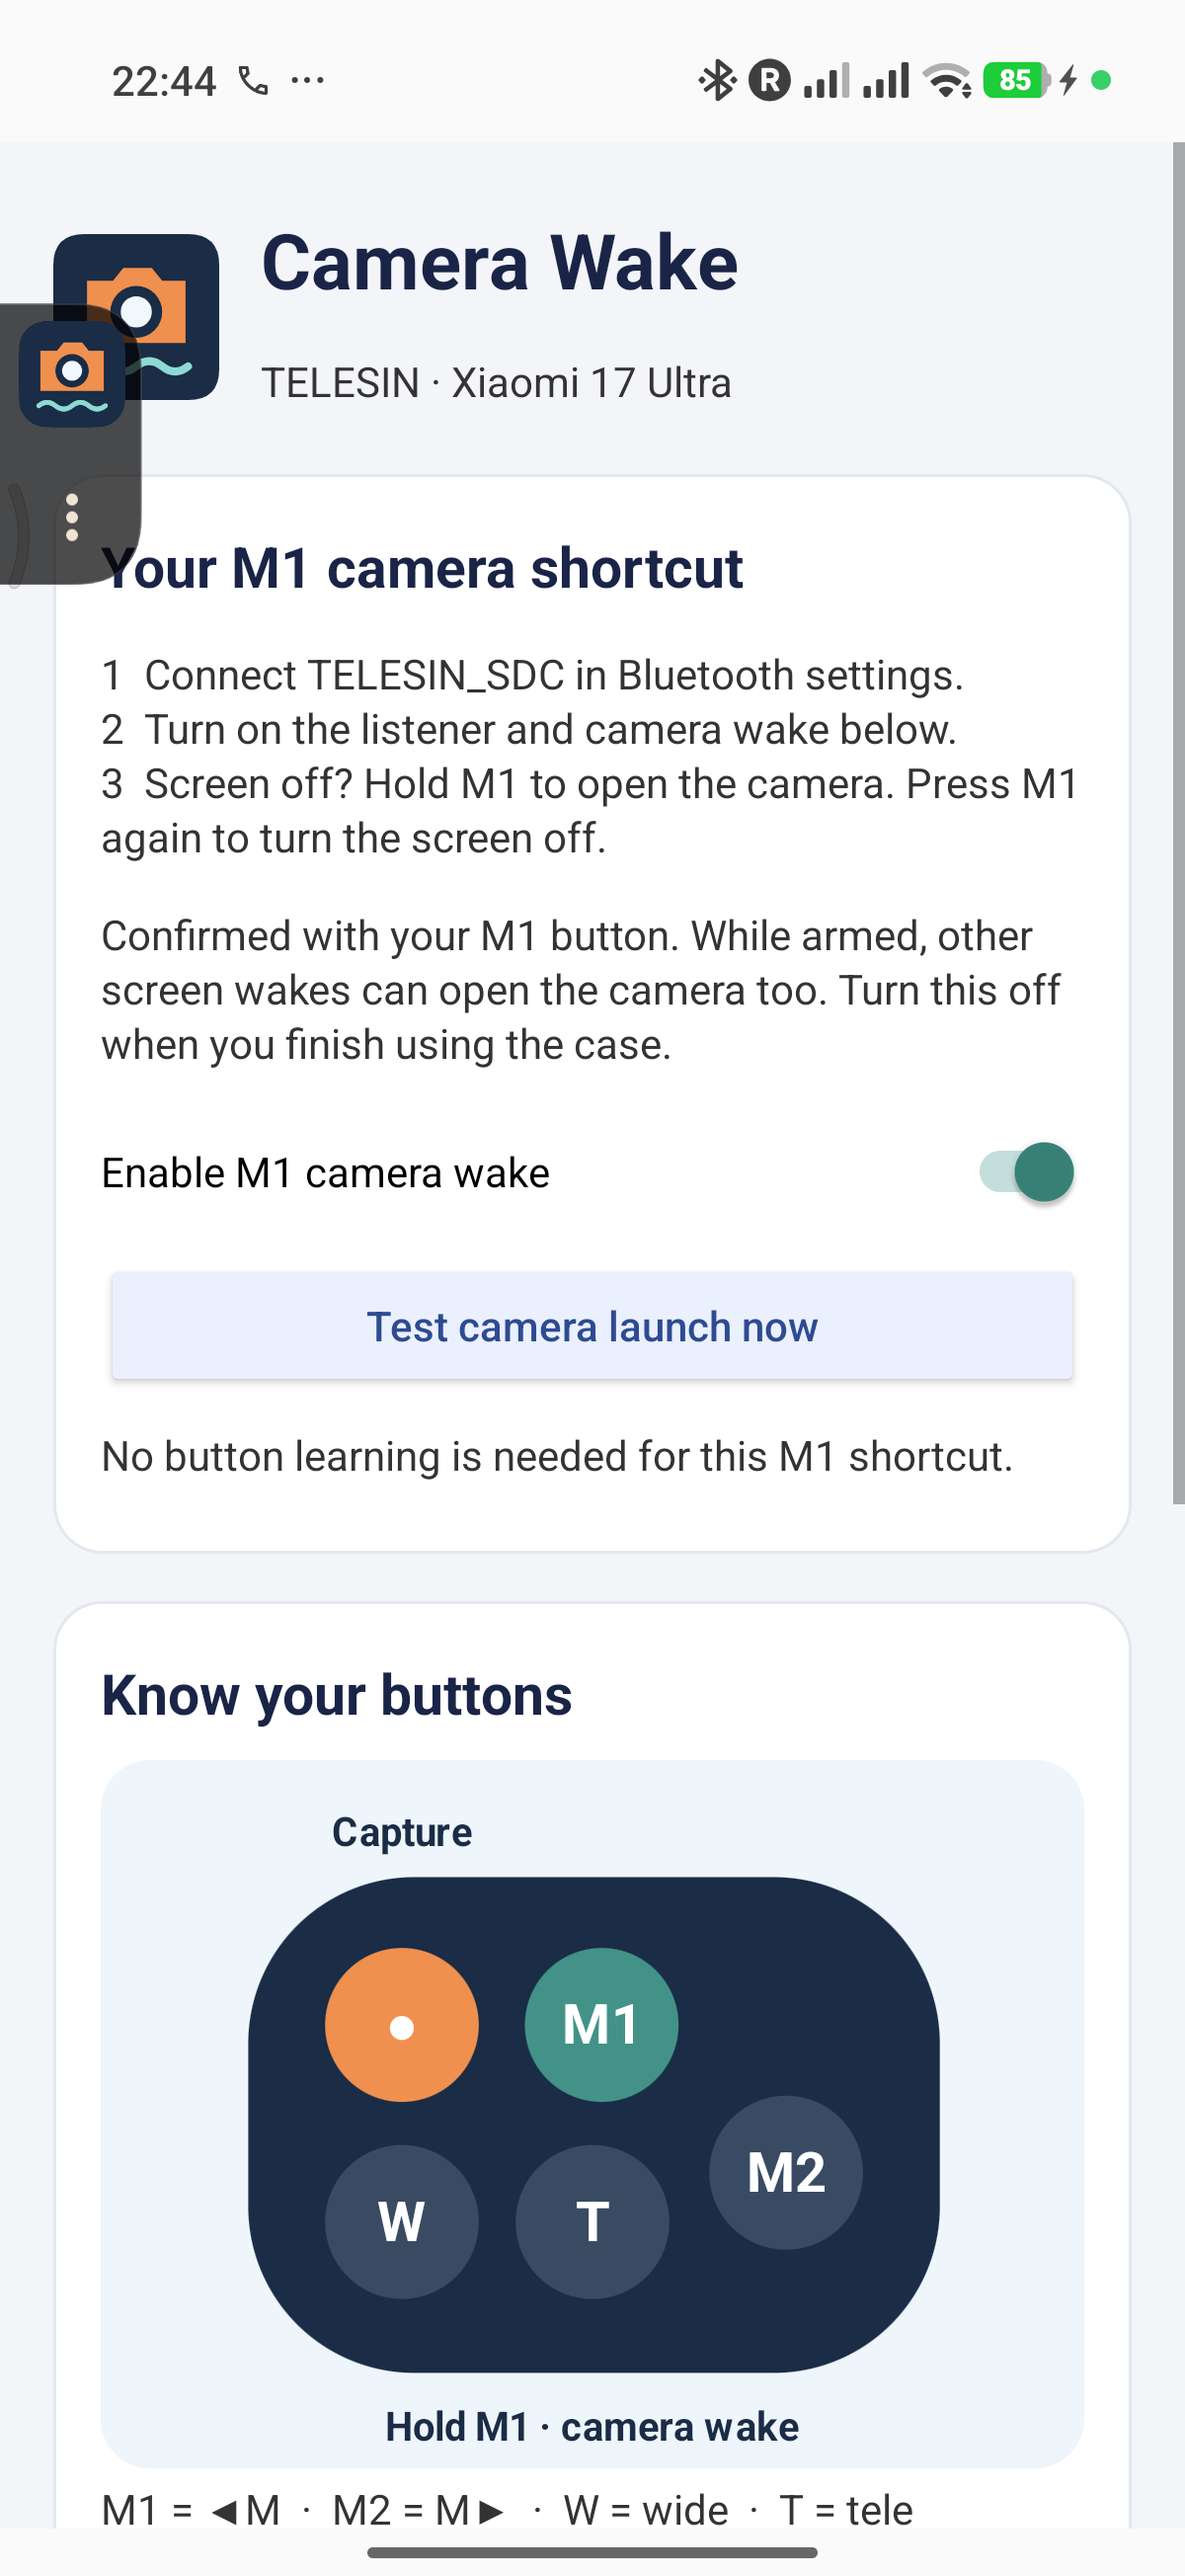
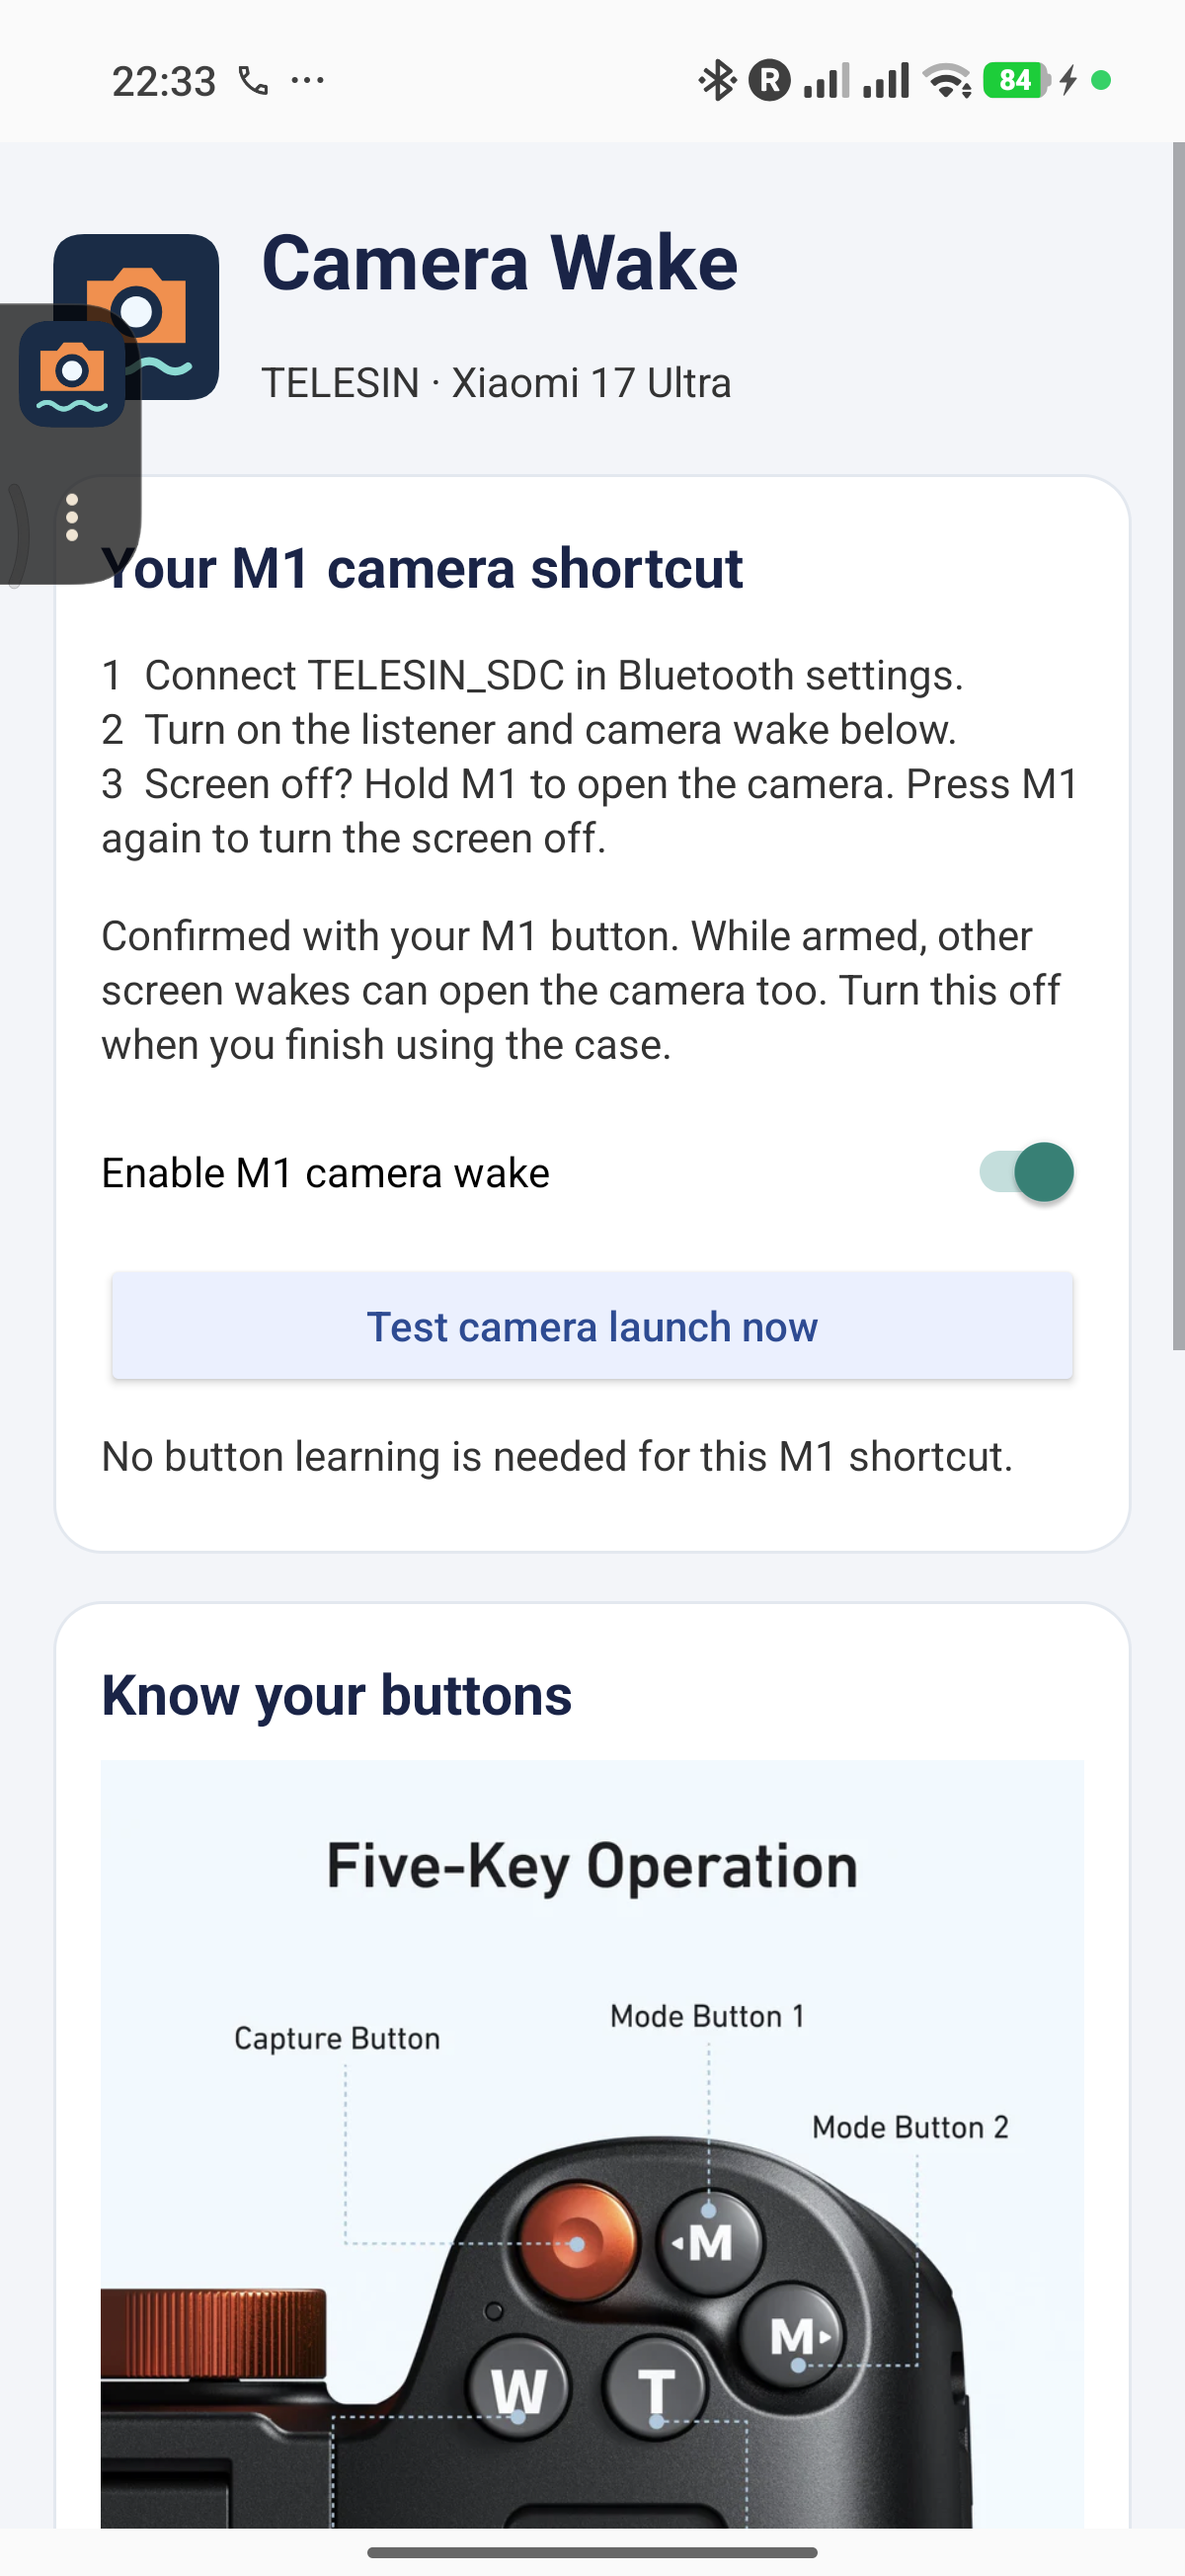
Restore original controller photograph and credit its source

Changed region(s): [[0.0617, 0.6833, 0.8325, 0.9939], [0.9867, 0.528, 1.0, 0.5901]]

diff --git a/app/src/main/java/org/telesin/buttonlab/MainActivity.java b/app/src/main/java/org/telesin/buttonlab/MainActivity.java
@@ -95,9 +95,14 @@ public final class MainActivity extends Activity {
         addText(test, "No button learning is needed for this M1 shortcut.");
         LinearLayout guide = card(layout);
         heading(guide, "Know your buttons", 19);
-        guide.addView(new ControllerGuide(this), new LinearLayout.LayoutParams(-1, -2));
+        android.widget.ImageView controller = new android.widget.ImageView(this);
+        controller.setImageResource(R.drawable.controller_reference);
+        controller.setAdjustViewBounds(true);
+        controller.setScaleType(android.widget.ImageView.ScaleType.FIT_CENTER);
+        controller.setContentDescription("TELESIN product photo identifying Capture, M1, M2, W and T buttons");
+        guide.addView(controller, new LinearLayout.LayoutParams(-1, -2));
         addText(guide, "M1 = ◀M  ·  M2 = M▶  ·  W = wide  ·  T = tele");
-        addText(guide, "Illustrated guide · TELESIN P4-WTP-06");
+        addText(guide, "Product button guide · TELESIN P4-WTP-06");
         LinearLayout setup = card(layout);
         heading(setup, "Listener & setup", 19);
         status = addText(setup, "Listener: unknown");

diff --git a/README.md b/README.md
@@ -4,9 +4,9 @@ Free, open-source Android companion for the **TELESIN P4-WTP-06** underwater pho
 
 ## App screenshot
 
-<img src="docs/screenshots/camera-wake-main.png" alt="Camera Wake on Xiaomi 17 Ultra, showing the M1 wake control and illustrated controller guide" width="360" />
+<img src="docs/screenshots/camera-wake-main.png" alt="Camera Wake on Xiaomi 17 Ultra, showing the M1 wake control and product-photo controller guide" width="360" />
 
-Captured from the tested Xiaomi 17 Ultra running Camera Wake 1.0.1.
+Captured from the tested Xiaomi 17 Ultra; the product-photo layout is restored in Camera Wake 1.0.2.
 
 ## Tested phone
 
@@ -21,7 +21,7 @@ Other phones, firmware versions and controllers have not been validated. The app
 
 ## Download and install
 
-Download **Camera-Wake-1.0.1.apk** from this repository’s **Releases** page. It is free, with no subscription, ads, accounts or in-app purchases.
+Download **Camera-Wake-1.0.2.apk** from this repository’s **Releases** page. It is free, with no subscription, ads, accounts or in-app purchases.
 
 1. Transfer the APK to the phone and open it. Android may ask you to allow installation from the app you used to open the file.
 2. Open **Camera Wake**.
@@ -35,7 +35,7 @@ Download **Camera-Wake-1.0.1.apk** from this repository’s **Releases** page. I
 For ADB installation:
 
 ```sh
-adb install -r Camera-Wake-1.0.1.apk
+adb install -r Camera-Wake-1.0.2.apk
 adb shell am start -n org.telesin.buttonlab/.MainActivity
 ```
 
@@ -47,7 +47,7 @@ There is no root, firmware modification, password bypass or private-gallery acce
 
 ## Button guide and advanced features
 
-An original illustrated guide identifies Capture, M1, M2, W and T. The app includes:
+A product-photo guide identifies Capture, M1, M2, W and T. The app includes:
 
 - Separate short-press and long-press actions for ordinary learned external keys.
 - Adjustable hold duration, pass-through, ignore, calibrated camera taps and swipes.
@@ -88,10 +88,10 @@ GitHub Actions builds the app and uploads the APK as a free workflow artifact on
 - Gradle build and Android lint pass.
 - The APK was installed and the UI inspected on the tested Xiaomi.
 - The owner verified the M1 screen-off → camera → screen-off flow.
-- Version 1.0.1 adds freely licensed original artwork while preserving the working camera behavior.
+- Version 1.0.2 restores the original product-photo button guide while preserving the working camera behavior.
 
 ## License and attribution
 
-Code and original bundled artwork are licensed under **MIT**. The Gradle wrapper retains its upstream license notices. TELESIN and Xiaomi names identify compatible hardware; this project is independent and is not endorsed by either company.
+Code and the custom camera-and-wave logo are licensed under **MIT**. The third-party product photograph is excluded from the MIT license; its rights remain with its owner. The Gradle wrapper retains its upstream license notices. TELESIN and Xiaomi names identify compatible hardware; this project is independent and is not endorsed by either company.
 
-The controller diagram was informed by public P4-WTP-06 product references. No retailer photograph is bundled.
+Product photo source: [Kareem Stores TELESIN P4-WTP-06 listing](https://kareemstores.com/en/telesin-smartphone-diving-case-with-remote-control-p4-wtp-06-1773945903). The photograph is used as a hardware button reference.

diff --git a/THIRD_PARTY_NOTICES.md b/THIRD_PARTY_NOTICES.md
@@ -1,0 +1,6 @@
+# Third-party artwork
+
+`app/src/main/res/drawable/controller_reference.webp` is a TELESIN P4-WTP-06 product reference photograph from Kareem Stores. It is not covered by this project’s MIT license. Rights remain with the original owner.
+
+Source: https://kareemstores.com/en/telesin-smartphone-diving-case-with-remote-control-p4-wtp-06-1773945903
+Image: https://cdn.supercommerce.io/kareem/uploads/5_0f68cab5-fb1e-4842-8344-97eff8d8ac6c.webp
